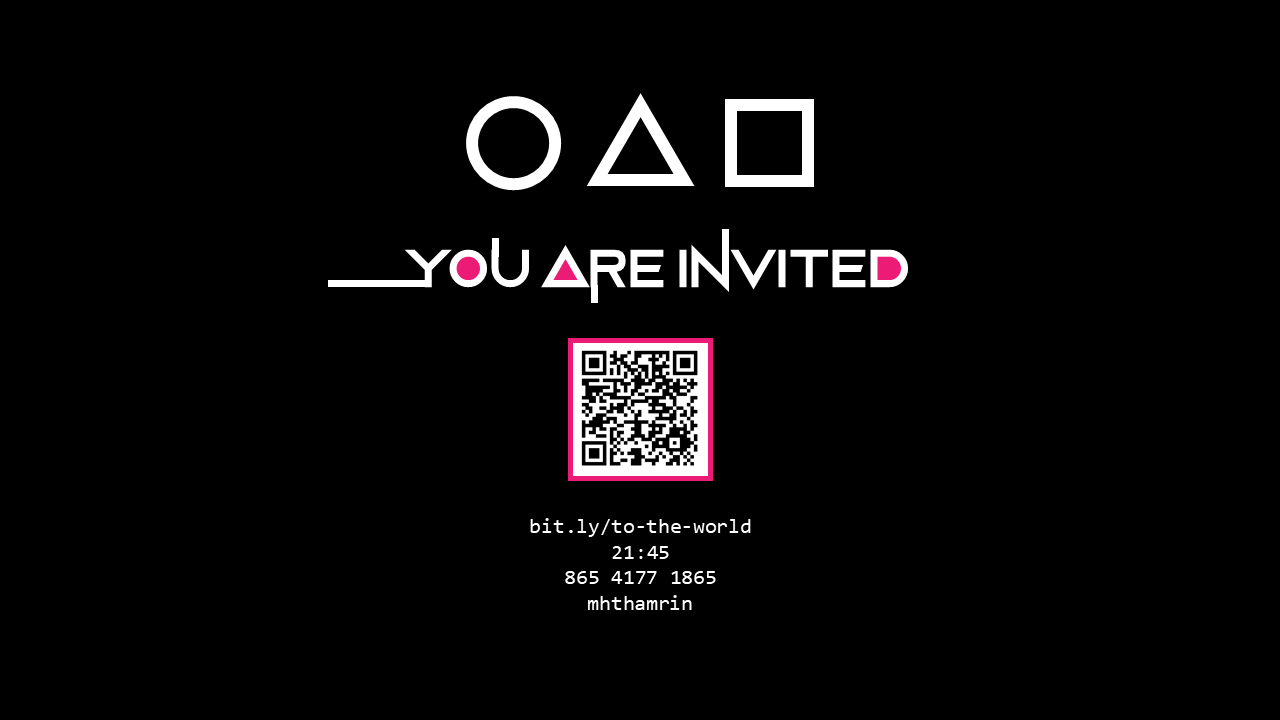
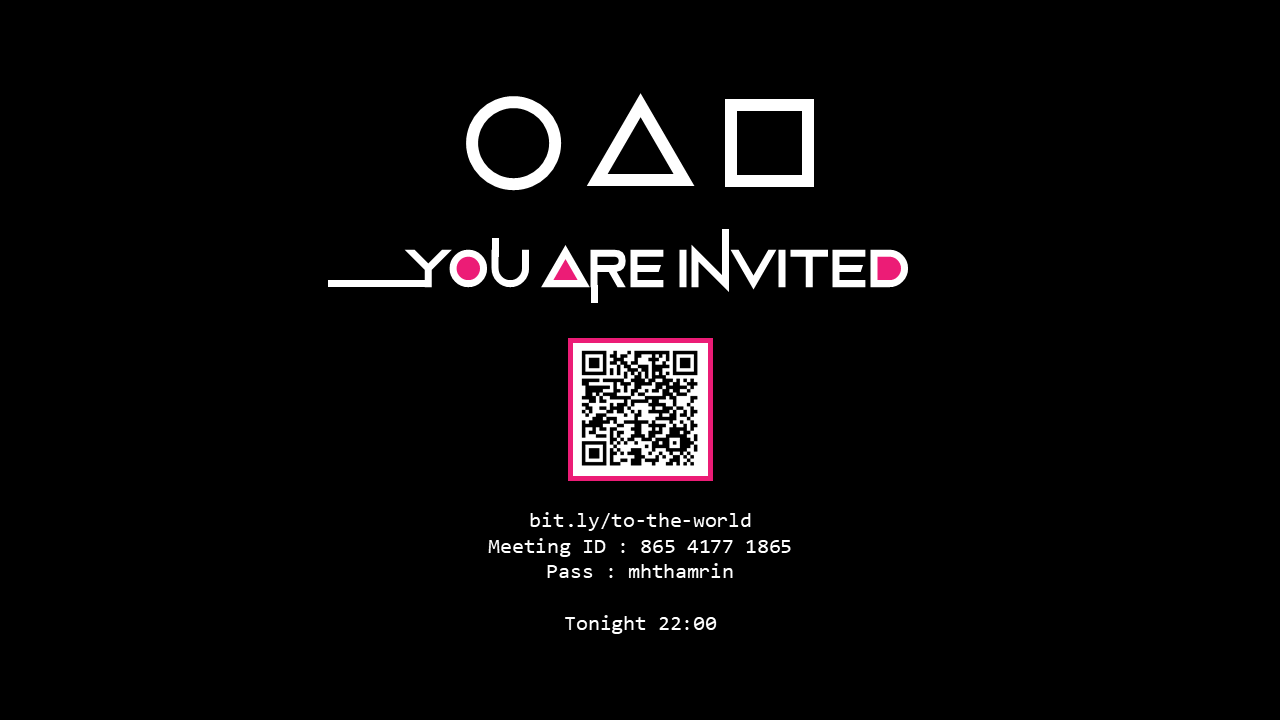
change bg and update name pos

Changed region(s): [[0.375, 0.7028, 0.625, 0.8861]]

diff --git a/notinvited.php b/notinvited.php
@@ -11,9 +11,7 @@ $username = $_SESSION['username'];
 	<title>Not Invited</title>
 	<link rel="stylesheet" href="styles.css">
 </head>
-<body>
-	<center>
-	<br><br><br>
+<body>	
 	<h1>
 	<div style="color: white;">
 	<div style="font-family: Consolas;">
@@ -28,11 +26,10 @@ $username = $_SESSION['username'];
 	</div>
 	</div>
 	</h1>
-	</center>
 </body>
 <style>
 body {
-  background-image: url('notinvited.png');
+  background-image: url('notinvited1.png');
   background-color: black;
   background-repeat: no-repeat;
   background-attachment: fixed;

diff --git a/invited.php b/invited.php
@@ -12,8 +12,6 @@ $username = $_SESSION['username'];
 	<link rel="stylesheet" href="styles.css">
 </head>
 <body>
-	<center>
-	<br><br><br>
 	<h1>
 	<div style="color: white;">
 	<div style="font-family: Consolas;">
@@ -28,7 +26,6 @@ $username = $_SESSION['username'];
 	</div>
 	</div>
 	</h1>
-	</center>
 </body>
 <style>
 body {
